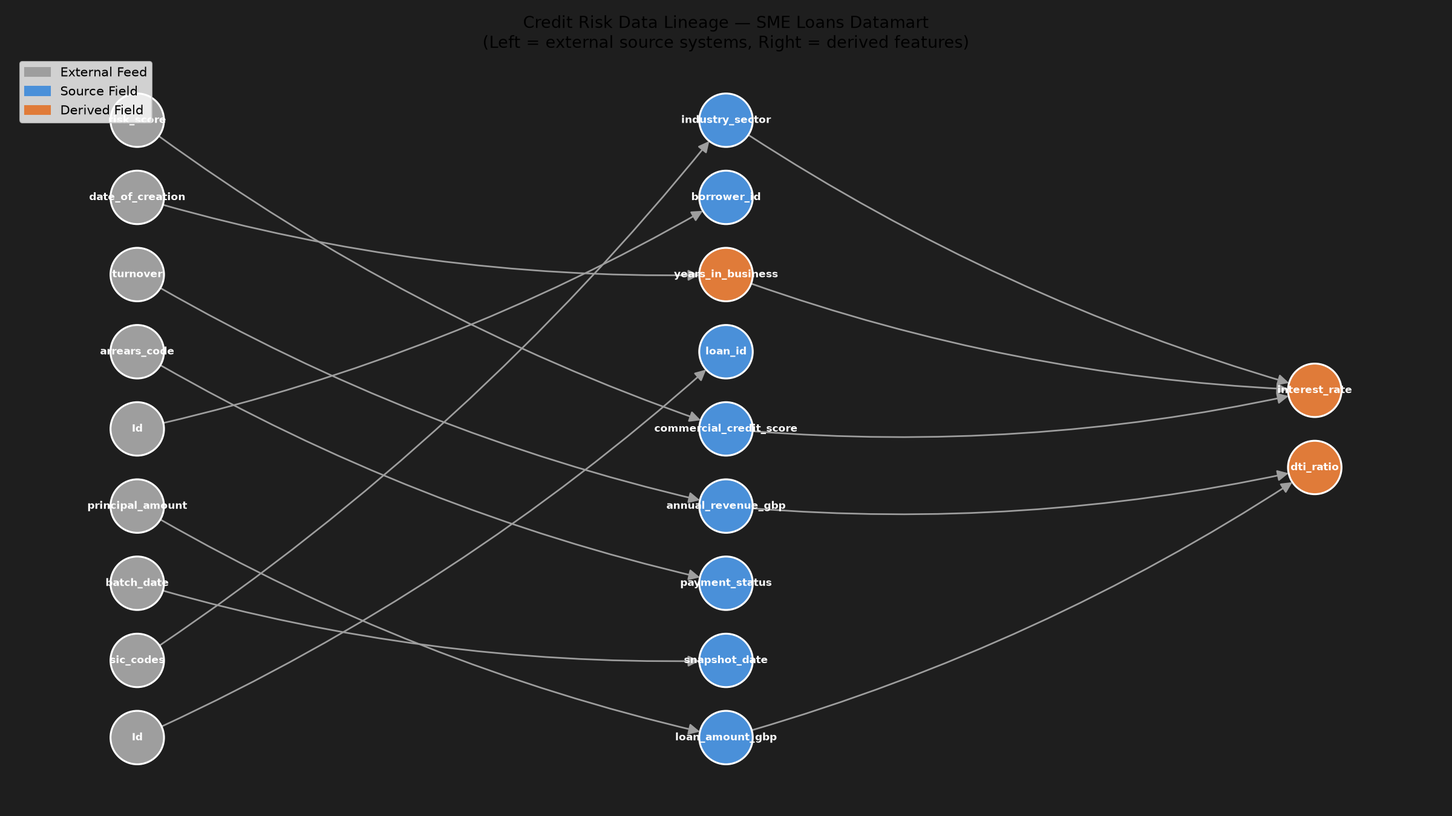
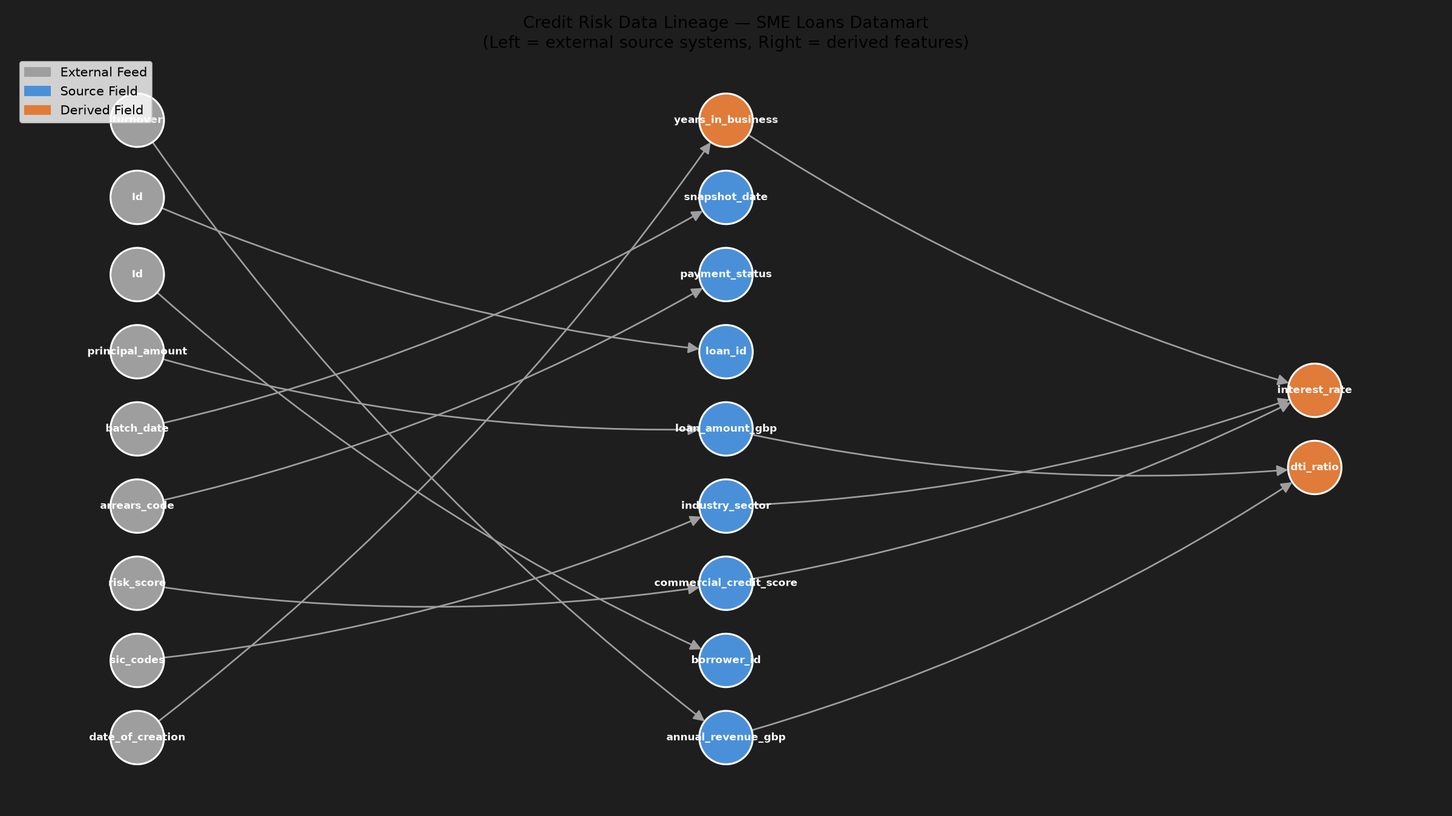
Make the committed lineage rendering reproducible
Running main.py rewrote docs/lineage_graph.png with different bytes every time,
so the committed image could not be reproduced from the repository and any
reviewer who ran the pipeline got a spurious diff. Node order within a layer came
straight from nx.utils.groups, which returns sets, so the layout followed the
interpreter's hash seed; the graph queries had no ORDER BY either.

Layers are now sorted before being handed to multipartite_layout and the graph is
read in a fixed order, which makes the PNG and the interactive HTML byte-stable
across runs and across hash seeds. The MySQL suite now compares both against the
committed files alongside the markdown reports, so drift in any generated artifact
fails a test instead of quietly landing in a commit.

diff --git a/docs/lineage_graph_interactive.html b/docs/lineage_graph_interactive.html
@@ -290,8 +290,8 @@ function highlightFilter(filter) {
                   
 
                   // parsing and collecting nodes and edges from the python
-                  nodes = new vis.DataSet([{"color": "#e07b39", "font": {"color": "white"}, "id": "credit_datamart_sme_loans::dti_ratio", "label": "dti_ratio", "shape": "dot", "size": 18, "title": "credit_datamart_sme_loans \u00b7 Derived Field"}, {"color": "#4a90d9", "font": {"color": "white"}, "id": "credit_datamart_sme_loans::loan_amount_gbp", "label": "loan_amount_gbp", "shape": "dot", "size": 18, "title": "credit_datamart_sme_loans \u00b7 Source Field"}, {"color": "#4a90d9", "font": {"color": "white"}, "id": "credit_datamart_sme_loans::annual_revenue_gbp", "label": "annual_revenue_gbp", "shape": "dot", "size": 18, "title": "credit_datamart_sme_loans \u00b7 Source Field"}, {"color": "#9e9e9e", "font": {"color": "white"}, "id": "Xero/Quickbooks/Bureau / FiledAccounts::turnover", "label": "turnover", "shape": "dot", "size": 18, "title": "Xero/Quickbooks/Bureau / FiledAccounts \u00b7 External Feed"}, {"color": "#4a90d9", "font": {"color": "white"}, "id": "credit_datamart_sme_loans::borrower_id", "label": "borrower_id", "shape": "dot", "size": 18, "title": "credit_datamart_sme_loans \u00b7 Source Field"}, {"color": "#9e9e9e", "font": {"color": "white"}, "id": "Salesforce / Account::Id", "label": "Id", "shape": "dot", "size": 18, "title": "Salesforce / Account \u00b7 External Feed"}, {"color": "#4a90d9", "font": {"color": "white"}, "id": "credit_datamart_sme_loans::commercial_credit_score", "label": "commercial_credit_score", "shape": "dot", "size": 18, "title": "credit_datamart_sme_loans \u00b7 Source Field"}, {"color": "#9e9e9e", "font": {"color": "white"}, "id": "Experian Commercial / RiskReport::risk_score", "label": "risk_score", "shape": "dot", "size": 18, "title": "Experian Commercial / RiskReport \u00b7 External Feed"}, {"color": "#4a90d9", "font": {"color": "white"}, "id": "credit_datamart_sme_loans::industry_sector", "label": "industry_sector", "shape": "dot", "size": 18, "title": "credit_datamart_sme_loans \u00b7 Source Field"}, {"color": "#9e9e9e", "font": {"color": "white"}, "id": "Companies House / CompanyProfile::sic_codes", "label": "sic_codes", "shape": "dot", "size": 18, "title": "Companies House / CompanyProfile \u00b7 External Feed"}, {"color": "#9e9e9e", "font": {"color": "white"}, "id": "Internal Core Banking / LoanMaster::principal_amount", "label": "principal_amount", "shape": "dot", "size": 18, "title": "Internal Core Banking / LoanMaster \u00b7 External Feed"}, {"color": "#4a90d9", "font": {"color": "white"}, "id": "credit_datamart_sme_loans::loan_id", "label": "loan_id", "shape": "dot", "size": 18, "title": "credit_datamart_sme_loans \u00b7 Source Field"}, {"color": "#9e9e9e", "font": {"color": "white"}, "id": "Salesforce / Opportunity::Id", "label": "Id", "shape": "dot", "size": 18, "title": "Salesforce / Opportunity \u00b7 External Feed"}, {"color": "#4a90d9", "font": {"color": "white"}, "id": "credit_datamart_sme_loans::payment_status", "label": "payment_status", "shape": "dot", "size": 18, "title": "credit_datamart_sme_loans \u00b7 Source Field"}, {"color": "#9e9e9e", "font": {"color": "white"}, "id": "Internal Core Banking / CollectionsStatus::arrears_code", "label": "arrears_code", "shape": "dot", "size": 18, "title": "Internal Core Banking / CollectionsStatus \u00b7 External Feed"}, {"color": "#4a90d9", "font": {"color": "white"}, "id": "credit_datamart_sme_loans::snapshot_date", "label": "snapshot_date", "shape": "dot", "size": 18, "title": "credit_datamart_sme_loans \u00b7 Source Field"}, {"color": "#9e9e9e", "font": {"color": "white"}, "id": "Internal Core Banking / ETLBatch::batch_date", "label": "batch_date", "shape": "dot", "size": 18, "title": "Internal Core Banking / ETLBatch \u00b7 External Feed"}, {"color": "#e07b39", "font": {"color": "white"}, "id": "credit_datamart_sme_loans::years_in_business", "label": "years_in_business", "shape": "dot", "size": 18, "title": "credit_datamart_sme_loans \u00b7 Derived Field"}, {"color": "#9e9e9e", "font": {"color": "white"}, "id": "Companies House / CompanyProfile::date_of_creation", "label": "date_of_creation", "shape": "dot", "size": 18, "title": "Companies House / CompanyProfile \u00b7 External Feed"}, {"color": "#e07b39", "font": {"color": "white"}, "id": "credit_datamart_sme_loans::interest_rate", "label": "interest_rate", "shape": "dot", "size": 18, "title": "credit_datamart_sme_loans \u00b7 Derived Field"}]);
-                  edges = new vis.DataSet([{"arrows": "to", "color": "#777777", "from": "credit_datamart_sme_loans::loan_amount_gbp", "title": "calc_dti_ratio", "to": "credit_datamart_sme_loans::dti_ratio"}, {"arrows": "to", "color": "#777777", "from": "credit_datamart_sme_loans::annual_revenue_gbp", "title": "calc_dti_ratio", "to": "credit_datamart_sme_loans::dti_ratio"}, {"arrows": "to", "color": "#777777", "from": "Xero/Quickbooks/Bureau / FiledAccounts::turnover", "title": "ingest_annual_revenue_gbp", "to": "credit_datamart_sme_loans::annual_revenue_gbp"}, {"arrows": "to", "color": "#777777", "from": "Salesforce / Account::Id", "title": "ingest_borrower_id", "to": "credit_datamart_sme_loans::borrower_id"}, {"arrows": "to", "color": "#777777", "from": "credit_datamart_sme_loans::commercial_credit_score", "title": "price_interest_rate", "to": "credit_datamart_sme_loans::interest_rate"}, {"arrows": "to", "color": "#777777", "from": "Experian Commercial / RiskReport::risk_score", "title": "ingest_commercial_credit_score", "to": "credit_datamart_sme_loans::commercial_credit_score"}, {"arrows": "to", "color": "#777777", "from": "credit_datamart_sme_loans::industry_sector", "title": "price_interest_rate", "to": "credit_datamart_sme_loans::interest_rate"}, {"arrows": "to", "color": "#777777", "from": "Companies House / CompanyProfile::sic_codes", "title": "ingest_industry_sector", "to": "credit_datamart_sme_loans::industry_sector"}, {"arrows": "to", "color": "#777777", "from": "Internal Core Banking / LoanMaster::principal_amount", "title": "ingest_loan_amount_gbp", "to": "credit_datamart_sme_loans::loan_amount_gbp"}, {"arrows": "to", "color": "#777777", "from": "Salesforce / Opportunity::Id", "title": "ingest_loan_id", "to": "credit_datamart_sme_loans::loan_id"}, {"arrows": "to", "color": "#777777", "from": "Internal Core Banking / CollectionsStatus::arrears_code", "title": "ingest_payment_status", "to": "credit_datamart_sme_loans::payment_status"}, {"arrows": "to", "color": "#777777", "from": "Internal Core Banking / ETLBatch::batch_date", "title": "ingest_snapshot_date", "to": "credit_datamart_sme_loans::snapshot_date"}, {"arrows": "to", "color": "#777777", "from": "credit_datamart_sme_loans::years_in_business", "title": "price_interest_rate", "to": "credit_datamart_sme_loans::interest_rate"}, {"arrows": "to", "color": "#777777", "from": "Companies House / CompanyProfile::date_of_creation", "title": "ingest_years_in_business", "to": "credit_datamart_sme_loans::years_in_business"}]);
+                  nodes = new vis.DataSet([{"color": "#9e9e9e", "font": {"color": "white"}, "id": "Companies House / CompanyProfile::date_of_creation", "label": "date_of_creation", "shape": "dot", "size": 18, "title": "Companies House / CompanyProfile \u00b7 External Feed"}, {"color": "#9e9e9e", "font": {"color": "white"}, "id": "Companies House / CompanyProfile::sic_codes", "label": "sic_codes", "shape": "dot", "size": 18, "title": "Companies House / CompanyProfile \u00b7 External Feed"}, {"color": "#4a90d9", "font": {"color": "white"}, "id": "credit_datamart_sme_loans::annual_revenue_gbp", "label": "annual_revenue_gbp", "shape": "dot", "size": 18, "title": "credit_datamart_sme_loans \u00b7 Source Field"}, {"color": "#4a90d9", "font": {"color": "white"}, "id": "credit_datamart_sme_loans::borrower_id", "label": "borrower_id", "shape": "dot", "size": 18, "title": "credit_datamart_sme_loans \u00b7 Source Field"}, {"color": "#4a90d9", "font": {"color": "white"}, "id": "credit_datamart_sme_loans::commercial_credit_score", "label": "commercial_credit_score", "shape": "dot", "size": 18, "title": "credit_datamart_sme_loans \u00b7 Source Field"}, {"color": "#e07b39", "font": {"color": "white"}, "id": "credit_datamart_sme_loans::dti_ratio", "label": "dti_ratio", "shape": "dot", "size": 18, "title": "credit_datamart_sme_loans \u00b7 Derived Field"}, {"color": "#4a90d9", "font": {"color": "white"}, "id": "credit_datamart_sme_loans::industry_sector", "label": "industry_sector", "shape": "dot", "size": 18, "title": "credit_datamart_sme_loans \u00b7 Source Field"}, {"color": "#e07b39", "font": {"color": "white"}, "id": "credit_datamart_sme_loans::interest_rate", "label": "interest_rate", "shape": "dot", "size": 18, "title": "credit_datamart_sme_loans \u00b7 Derived Field"}, {"color": "#4a90d9", "font": {"color": "white"}, "id": "credit_datamart_sme_loans::loan_amount_gbp", "label": "loan_amount_gbp", "shape": "dot", "size": 18, "title": "credit_datamart_sme_loans \u00b7 Source Field"}, {"color": "#4a90d9", "font": {"color": "white"}, "id": "credit_datamart_sme_loans::loan_id", "label": "loan_id", "shape": "dot", "size": 18, "title": "credit_datamart_sme_loans \u00b7 Source Field"}, {"color": "#4a90d9", "font": {"color": "white"}, "id": "credit_datamart_sme_loans::payment_status", "label": "payment_status", "shape": "dot", "size": 18, "title": "credit_datamart_sme_loans \u00b7 Source Field"}, {"color": "#4a90d9", "font": {"color": "white"}, "id": "credit_datamart_sme_loans::snapshot_date", "label": "snapshot_date", "shape": "dot", "size": 18, "title": "credit_datamart_sme_loans \u00b7 Source Field"}, {"color": "#e07b39", "font": {"color": "white"}, "id": "credit_datamart_sme_loans::years_in_business", "label": "years_in_business", "shape": "dot", "size": 18, "title": "credit_datamart_sme_loans \u00b7 Derived Field"}, {"color": "#9e9e9e", "font": {"color": "white"}, "id": "Experian Commercial / RiskReport::risk_score", "label": "risk_score", "shape": "dot", "size": 18, "title": "Experian Commercial / RiskReport \u00b7 External Feed"}, {"color": "#9e9e9e", "font": {"color": "white"}, "id": "Internal Core Banking / CollectionsStatus::arrears_code", "label": "arrears_code", "shape": "dot", "size": 18, "title": "Internal Core Banking / CollectionsStatus \u00b7 External Feed"}, {"color": "#9e9e9e", "font": {"color": "white"}, "id": "Internal Core Banking / ETLBatch::batch_date", "label": "batch_date", "shape": "dot", "size": 18, "title": "Internal Core Banking / ETLBatch \u00b7 External Feed"}, {"color": "#9e9e9e", "font": {"color": "white"}, "id": "Internal Core Banking / LoanMaster::principal_amount", "label": "principal_amount", "shape": "dot", "size": 18, "title": "Internal Core Banking / LoanMaster \u00b7 External Feed"}, {"color": "#9e9e9e", "font": {"color": "white"}, "id": "Salesforce / Account::Id", "label": "Id", "shape": "dot", "size": 18, "title": "Salesforce / Account \u00b7 External Feed"}, {"color": "#9e9e9e", "font": {"color": "white"}, "id": "Salesforce / Opportunity::Id", "label": "Id", "shape": "dot", "size": 18, "title": "Salesforce / Opportunity \u00b7 External Feed"}, {"color": "#9e9e9e", "font": {"color": "white"}, "id": "Xero/Quickbooks/Bureau / FiledAccounts::turnover", "label": "turnover", "shape": "dot", "size": 18, "title": "Xero/Quickbooks/Bureau / FiledAccounts \u00b7 External Feed"}]);
+                  edges = new vis.DataSet([{"arrows": "to", "color": "#777777", "from": "Companies House / CompanyProfile::date_of_creation", "title": "ingest_years_in_business", "to": "credit_datamart_sme_loans::years_in_business"}, {"arrows": "to", "color": "#777777", "from": "Companies House / CompanyProfile::sic_codes", "title": "ingest_industry_sector", "to": "credit_datamart_sme_loans::industry_sector"}, {"arrows": "to", "color": "#777777", "from": "credit_datamart_sme_loans::annual_revenue_gbp", "title": "calc_dti_ratio", "to": "credit_datamart_sme_loans::dti_ratio"}, {"arrows": "to", "color": "#777777", "from": "credit_datamart_sme_loans::commercial_credit_score", "title": "price_interest_rate", "to": "credit_datamart_sme_loans::interest_rate"}, {"arrows": "to", "color": "#777777", "from": "credit_datamart_sme_loans::industry_sector", "title": "price_interest_rate", "to": "credit_datamart_sme_loans::interest_rate"}, {"arrows": "to", "color": "#777777", "from": "credit_datamart_sme_loans::loan_amount_gbp", "title": "calc_dti_ratio", "to": "credit_datamart_sme_loans::dti_ratio"}, {"arrows": "to", "color": "#777777", "from": "credit_datamart_sme_loans::years_in_business", "title": "price_interest_rate", "to": "credit_datamart_sme_loans::interest_rate"}, {"arrows": "to", "color": "#777777", "from": "Experian Commercial / RiskReport::risk_score", "title": "ingest_commercial_credit_score", "to": "credit_datamart_sme_loans::commercial_credit_score"}, {"arrows": "to", "color": "#777777", "from": "Internal Core Banking / CollectionsStatus::arrears_code", "title": "ingest_payment_status", "to": "credit_datamart_sme_loans::payment_status"}, {"arrows": "to", "color": "#777777", "from": "Internal Core Banking / ETLBatch::batch_date", "title": "ingest_snapshot_date", "to": "credit_datamart_sme_loans::snapshot_date"}, {"arrows": "to", "color": "#777777", "from": "Internal Core Banking / LoanMaster::principal_amount", "title": "ingest_loan_amount_gbp", "to": "credit_datamart_sme_loans::loan_amount_gbp"}, {"arrows": "to", "color": "#777777", "from": "Salesforce / Account::Id", "title": "ingest_borrower_id", "to": "credit_datamart_sme_loans::borrower_id"}, {"arrows": "to", "color": "#777777", "from": "Salesforce / Opportunity::Id", "title": "ingest_loan_id", "to": "credit_datamart_sme_loans::loan_id"}, {"arrows": "to", "color": "#777777", "from": "Xero/Quickbooks/Bureau / FiledAccounts::turnover", "title": "ingest_annual_revenue_gbp", "to": "credit_datamart_sme_loans::annual_revenue_gbp"}]);
 
                   nodeColors = {};
                   allNodes = nodes.get({ returnType: "Object" });

diff --git a/tests/test_mysql.py b/tests/test_mysql.py
@@ -1,45 +1,168 @@
-"""Opt-in tests against a disposable MySQL schema; never a user production database."""
+"""Opt-in tests against a disposable MySQL schema; never a user production database.
+
+Tests are ordered: read-only checks first, then the run that mutates metadata.
+"""
 import os
+import re
 import subprocess
 import sys
 from concurrent.futures import ThreadPoolExecutor
 from datetime import date
+from pathlib import Path
+
 import pytest
 from sqlalchemy import text
 
-pytestmark=pytest.mark.skipif(os.getenv('CATALOG_TEST_MYSQL')!='1',reason='Disposable MySQL integration environment not enabled')
+pytestmark = pytest.mark.skipif(os.getenv('CATALOG_TEST_MYSQL') != '1',
+                                reason='Disposable MySQL integration environment not enabled')
+ROOT = Path(__file__).resolve().parents[1]
+GEN_TIMESTAMP = re.compile(rb'^> \*\*Auto-generated\*\* on .*$', re.MULTILINE)
 
 
-def test_mysql_fresh_pipeline_upgrade_and_concurrent_versions():
+def run_pipeline():
+    subprocess.run([sys.executable, 'main.py'], check=True, cwd=ROOT,
+                   env={**os.environ, 'MPLBACKEND': 'Agg'})
+
+
+@pytest.fixture(scope='module')
+def engine():
+    """Start from an empty schema, then run the documented fresh-install path."""
     from config.db_config import get_engine
     from scripts.setup_database import setup
-    from metadata.dictionary_service import update_field_definition,FieldDefinition
-    from metadata.governance import sync_schema_issues
-    engine=get_engine()
-    setup(engine)
-    subprocess.run([sys.executable,'main.py'],check=True)
-    setup(engine,upgrade=True)
-    subprocess.run([sys.executable,'main.py'],check=True)
+    e = get_engine()
+    setup(e)
+    run_pipeline()
+    yield e
+    e.dispose()
+
+
+def test_committed_documentation_matches_the_database(engine):
+    """Generated docs are committed, so they can silently disagree with the code.
+
+    Regenerate and compare byte-for-byte, ignoring only the run timestamp in the
+    markdown reports. The rendered graph carries no timestamp, so an ordering
+    change anywhere in the pipeline shows up as a different image.
+    """
+    run_pipeline()
+    for name in ['docs/data_dictionary.md', 'docs/lineage_report.md']:
+        committed = subprocess.run(['git', 'show', f'HEAD:{name}'], cwd=ROOT, check=True,
+                                   capture_output=True).stdout
+        generated = (ROOT / name).read_bytes()
+        assert GEN_TIMESTAMP.sub(b'> **Auto-generated** on <timestamp>', committed) == \
+               GEN_TIMESTAMP.sub(b'> **Auto-generated** on <timestamp>', generated), name
+    for name in ['docs/lineage_graph.png', 'docs/lineage_graph_interactive.html']:
+        committed = subprocess.run(['git', 'show', f'HEAD:{name}'], cwd=ROOT, check=True,
+                                   capture_output=True).stdout
+        assert committed == (ROOT / name).read_bytes(), name
+
+
+def test_committed_calculation_report_matches_the_fixture(engine):
+    committed = subprocess.run(['git', 'show', 'HEAD:reports/calculation_validation.csv'],
+                               cwd=ROOT, check=True, capture_output=True).stdout
+    assert (ROOT / 'reports' / 'calculation_validation.csv').read_bytes() == committed
+
+
+def test_external_relationship_evidence_survives_a_mysql_round_trip(engine):
     with engine.connect() as c:
-        assert c.execute(text('SELECT COUNT(*) FROM data_dictionary WHERE is_current=1')).scalar_one()==11
-        assert c.execute(text("SELECT COUNT(*) FROM field_verification WHERE status='draft'")).scalar_one()==11
-        assert c.execute(text("SELECT COUNT(*) FROM vendor_usage WHERE customer_display='unconfirmed'")).scalar_one()==6
-        ds=c.execute(text("SELECT dataset_id FROM datasets WHERE dataset_name='credit_datamart_sme_loans'")).scalar_one()
-        assert c.execute(text('SELECT documentation_coverage_pct FROM vw_governance_scorecard')).scalar_one()==100
+        rows = c.execute(text("""
+            SELECT s.field_name, d.dataset_name AS feed, e.source_mapping_label,
+                   e.source_verification_status, e.source_evidence_ref, e.source_verified_at
+            FROM lineage_edges e
+            JOIN lineage_nodes s ON s.node_id = e.source_node_id
+            JOIN datasets d ON d.dataset_id = s.dataset_id
+            WHERE e.is_active = 1 AND s.node_type = 'External Feed'""")).mappings().all()
+    assert len(rows) == 9
+    assert all(r['source_mapping_label'] == 'illustrative' for r in rows)
+    assert all(r['source_verification_status'] == 'draft' for r in rows)
+    assert all(r['source_evidence_ref'] is None and r['source_verified_at'] is None for r in rows)
+    assert {'RiskReport', 'CompanyProfile', 'FiledAccounts'} <= {r['feed'].split(' / ')[1] for r in rows}
+    with engine.connect() as c:
+        dates = c.execute(text("""SELECT DISTINCT source_verified_at FROM lineage_edges e
+            JOIN lineage_nodes s ON s.node_id = e.source_node_id
+            WHERE e.is_active = 1 AND e.source_mapping_label = 'local-data'""")).scalars().all()
+    assert dates == [date(2026, 10, 31)]
+
+
+def test_repeat_pipeline_run_changes_nothing(engine):
+    from scripts.setup_database import setup
+    with engine.connect() as c:
+        before = {t: c.execute(text(f'SELECT COUNT(*) FROM {t}')).scalar_one()
+                  for t in ['transformation_rules', 'lineage_nodes', 'lineage_edges',
+                            'lineage_change_log', 'data_dictionary', 'governance_issues']}
+    setup(engine, upgrade=True)
+    run_pipeline()
+    with engine.connect() as c:
+        after = {t: c.execute(text(f'SELECT COUNT(*) FROM {t}')).scalar_one()
+                 for t in ['transformation_rules', 'lineage_nodes', 'lineage_edges',
+                           'lineage_change_log', 'data_dictionary', 'governance_issues']}
+    assert after == before
+
+
+def test_current_version_guard_and_issue_closure(engine):
+    from metadata.dictionary_service import update_field_definition, FieldDefinition
+    from metadata.governance import sync_schema_issues
+    with engine.connect() as c:
+        ds = c.execute(text("SELECT dataset_id FROM datasets WHERE dataset_name='credit_datamart_sme_loans'")).scalar_one()
+        assert c.execute(text('SELECT documentation_coverage_pct FROM vw_governance_scorecard')).scalar_one() == 100
+        assert c.execute(text("SELECT COUNT(*) FROM vendor_usage WHERE customer_display='unconfirmed'")).scalar_one() == 6
+
     def revise(label):
         try:
-            update_field_definition(engine,ds,'loan_id',FieldDefinition(description=label),date(2026,10,30),label)
+            update_field_definition(engine, ds, 'loan_id', FieldDefinition(description=label),
+                                    date(2026, 10, 30), label)
             return 'ok'
-        except ValueError:return 'conflict'
+        except ValueError:
+            return 'conflict'
+
     with ThreadPoolExecutor(max_workers=2) as pool:
-        assert sorted(pool.map(revise,['a','b']))==['conflict','ok']
-    # Reconciliation creates a queue entry; fixing metadata closes it with evidence.
-    with engine.begin() as c:c.execute(text("UPDATE data_dictionary SET data_type='integer' WHERE field_name='loan_id' AND is_current=1"))
-    sync_schema_issues(engine)
-    with engine.connect() as c:assert c.execute(text("SELECT COUNT(*) FROM governance_issues WHERE category='schema' AND status='open'")).scalar_one()==1
-    with engine.begin() as c:c.execute(text("UPDATE data_dictionary SET data_type='string' WHERE field_name='loan_id' AND is_current=1"))
+        assert sorted(pool.map(revise, ['a', 'b'])) == ['conflict', 'ok']
+    with engine.connect() as c:
+        assert c.execute(text('SELECT COUNT(*) FROM data_dictionary WHERE is_current=1 AND field_name=\'loan_id\'')).scalar_one() == 1
+
+    # Reconciliation creates a queue entry; fixing the metadata closes it with evidence.
+    with engine.begin() as c:
+        c.execute(text("UPDATE data_dictionary SET data_type='integer' WHERE field_name='loan_id' AND is_current=1"))
     sync_schema_issues(engine)
     with engine.connect() as c:
-        assert c.execute(text("SELECT COUNT(*) FROM governance_issues WHERE category='schema' AND status='resolved' AND closure_evidence IS NOT NULL")).scalar_one()==1
-        assert c.execute(text("SELECT COUNT(*) FROM metadata_audit_log WHERE action_type='CLOSE'")).scalar_one()>=2
-    engine.dispose()
+        assert c.execute(text("SELECT COUNT(*) FROM governance_issues WHERE category='schema' AND status='open'")).scalar_one() == 1
+    with engine.begin() as c:
+        c.execute(text("UPDATE data_dictionary SET data_type='string' WHERE field_name='loan_id' AND is_current=1"))
+    sync_schema_issues(engine)
+    with engine.connect() as c:
+        assert c.execute(text("SELECT COUNT(*) FROM governance_issues WHERE category='schema' AND status='resolved' AND closure_evidence IS NOT NULL")).scalar_one() == 1
+        assert c.execute(text("SELECT COUNT(*) FROM metadata_audit_log WHERE action_type='CLOSE'")).scalar_one() >= 2
+
+
+def test_rule_revision_and_relationship_retirement_in_mysql(engine, tmp_path):
+    import pandas as pd
+    from lineage.load_transformation_rules import load, RULES_CSV
+    with engine.connect() as c:
+        before = c.execute(text('SELECT COUNT(*) FROM lineage_change_log')).scalar_one()
+    frame = pd.read_csv(RULES_CSV, keep_default_na=False)
+    path = tmp_path / 'rules.csv'
+
+    frame.loc[frame.rule_name == 'price_interest_rate', 'transformation_logic'] = (
+        'interest_rate = revised_grid[commercial_credit_score_band][industry_sector_band] '
+        '- tenure_discount[years_in_business]')
+    frame.to_csv(path, index=False, lineterminator='\n')
+    load(engine, path)
+    with engine.connect() as c:
+        assert c.execute(text("""SELECT transformation_logic FROM transformation_rules
+            WHERE rule_name='price_interest_rate'""")).scalar_one().startswith('interest_rate = revised_grid')
+        assert c.execute(text("SELECT COUNT(*) FROM lineage_change_log WHERE action='update'")).scalar_one() >= 1
+
+    dropped = frame[frame.rule_name != 'price_interest_rate']
+    dropped.to_csv(path, index=False, lineterminator='\n')
+    load(engine, path)
+    with engine.connect() as c:
+        assert c.execute(text("""SELECT is_active FROM transformation_rules
+            WHERE rule_name='price_interest_rate'""")).scalar_one() == 0
+        assert c.execute(text("""SELECT COUNT(*) FROM lineage_edges e
+            JOIN transformation_rules r ON r.rule_id=e.rule_id
+            WHERE r.rule_name='price_interest_rate' AND e.is_active=1""")).scalar_one() == 0
+        assert c.execute(text("SELECT COUNT(*) FROM transformation_rules")).scalar_one() == 11
+
+    load(engine)
+    with engine.connect() as c:
+        assert c.execute(text("""SELECT is_active FROM transformation_rules
+            WHERE rule_name='price_interest_rate'""")).scalar_one() == 1

diff --git a/lineage/visualize.py b/lineage/visualize.py
@@ -37,24 +37,26 @@ NODE_COLORS = {
 }
 
 
-def _assign_layers(graph: nx.DiGraph) -> dict[str, int]:
-    """Layer = topological generation index. Root nodes (External Feed
-    boundaries, in-degree 0) sit at layer 0; each generation after that is
-    one hop further along the DAG."""
-    layers = {}
-    for layer_idx, generation in enumerate(nx.topological_generations(graph)):
-        for node in generation:
-            layers[node] = layer_idx
-    return layers
+def _layered_nodes(graph: nx.DiGraph) -> dict[int, list[str]]:
+    """Nodes grouped by topological generation, each group in a fixed order.
+
+    Root nodes (External Feed boundaries, in-degree 0) form layer 0 and each
+    generation after that is one hop further along the DAG. Passing this dict to
+    multipartite_layout is the only way to get a stable picture: given a node
+    attribute it groups nodes with nx.utils.groups, which returns sets, so
+    within-layer order -- and therefore node position -- would follow the
+    interpreter's hash seed instead of the data, and a regenerated PNG would
+    never match the committed one.
+    """
+    return {
+        layer_idx: sorted(generation)
+        for layer_idx, generation in enumerate(nx.topological_generations(graph))
+    }
 
 
 def plot_static(graph: nx.DiGraph, output_path: Path) -> Path:
-    layers = _assign_layers(graph)
-    nx.set_node_attributes(graph, layers, name="layer")
-
-    # multipartite_layout arranges nodes into columns by the 'layer'
-    # attribute -- exactly the hierarchical, flow-oriented layout we want.
-    pos = nx.multipartite_layout(graph, subset_key="layer", align="vertical")
+    # Columns by topological layer, so the image reads left-to-right as data flow.
+    pos = nx.multipartite_layout(graph, subset_key=_layered_nodes(graph), align="vertical")
 
     node_colors = [NODE_COLORS[graph.nodes[n]["node_type"]] for n in graph.nodes]
     labels = {n: graph.nodes[n]["field_name"] for n in graph.nodes}

diff --git a/lineage/build_graph.py b/lineage/build_graph.py
@@ -48,6 +48,7 @@ def build_graph(engine: Engine) -> nx.DiGraph:
                 FROM lineage_nodes n
                 JOIN datasets d ON d.dataset_id = n.dataset_id
                 WHERE n.is_active=1
+                ORDER BY d.dataset_name, n.field_name
                 """
             )
         ).mappings().fetchall()
@@ -59,6 +60,7 @@ def build_graph(engine: Engine) -> nx.DiGraph:
                 FROM lineage_edges e
                 JOIN transformation_rules tr ON tr.rule_id = e.rule_id
                 WHERE e.is_active=1 AND tr.is_active=1
+                ORDER BY tr.rule_name, e.source_node_id, e.target_node_id
                 """
             )
         ).mappings().fetchall()

diff --git a/docs/data_dictionary.md b/docs/data_dictionary.md
@@ -1,6 +1,6 @@
 # Data Dictionary — credit_datamart_sme_loans
 
-> **Auto-generated** on 2026-10-31 11:09:53 from the live `credit_metadata_platform` database.
+> **Auto-generated** on 2026-10-31 11:28:56 from the live `credit_metadata_platform` database.
 > Do not edit this file by hand — it will be overwritten. Edit the dictionary via
 > `metadata/dictionary_service.py`, then re-run `docs/generate_docs.py`.
 
@@ -163,11 +163,19 @@ Principal amount originated
 | **Data type** | string |
 | **Valid range** | — |
 | **Business owner** | Credit Risk Analytics |
-| **Documented since** | 2024-01-15 |
+| **Documented since** | 2026-10-30 |
 | **Known issues** | None |
 
-Unique identifier for the loan facility
+a
 
+<details>
+<summary>Version history (2 versions)</summary>
+
+| Valid From | Valid To | Data Type | Description |
+|---|---|---|---|
+| 2024-01-15 | 2026-10-29 | string | Unique identifier for the loan facility |
+| 2026-10-30 | current | string | a |
+</details>
 
 ---
 ### `payment_status`

diff --git a/docs/lineage_report.md b/docs/lineage_report.md
@@ -1,6 +1,6 @@
 # Data Lineage Report — credit_datamart_sme_loans
 
-> **Auto-generated** on 2026-10-31 11:09:53 from the live `credit_metadata_platform` database.
+> **Auto-generated** on 2026-10-31 11:28:56 from the live `credit_metadata_platform` database.
 > Do not edit this file by hand — it is rebuilt from `lineage_nodes` / `lineage_edges` by
 > `docs/generate_docs.py`.
 
